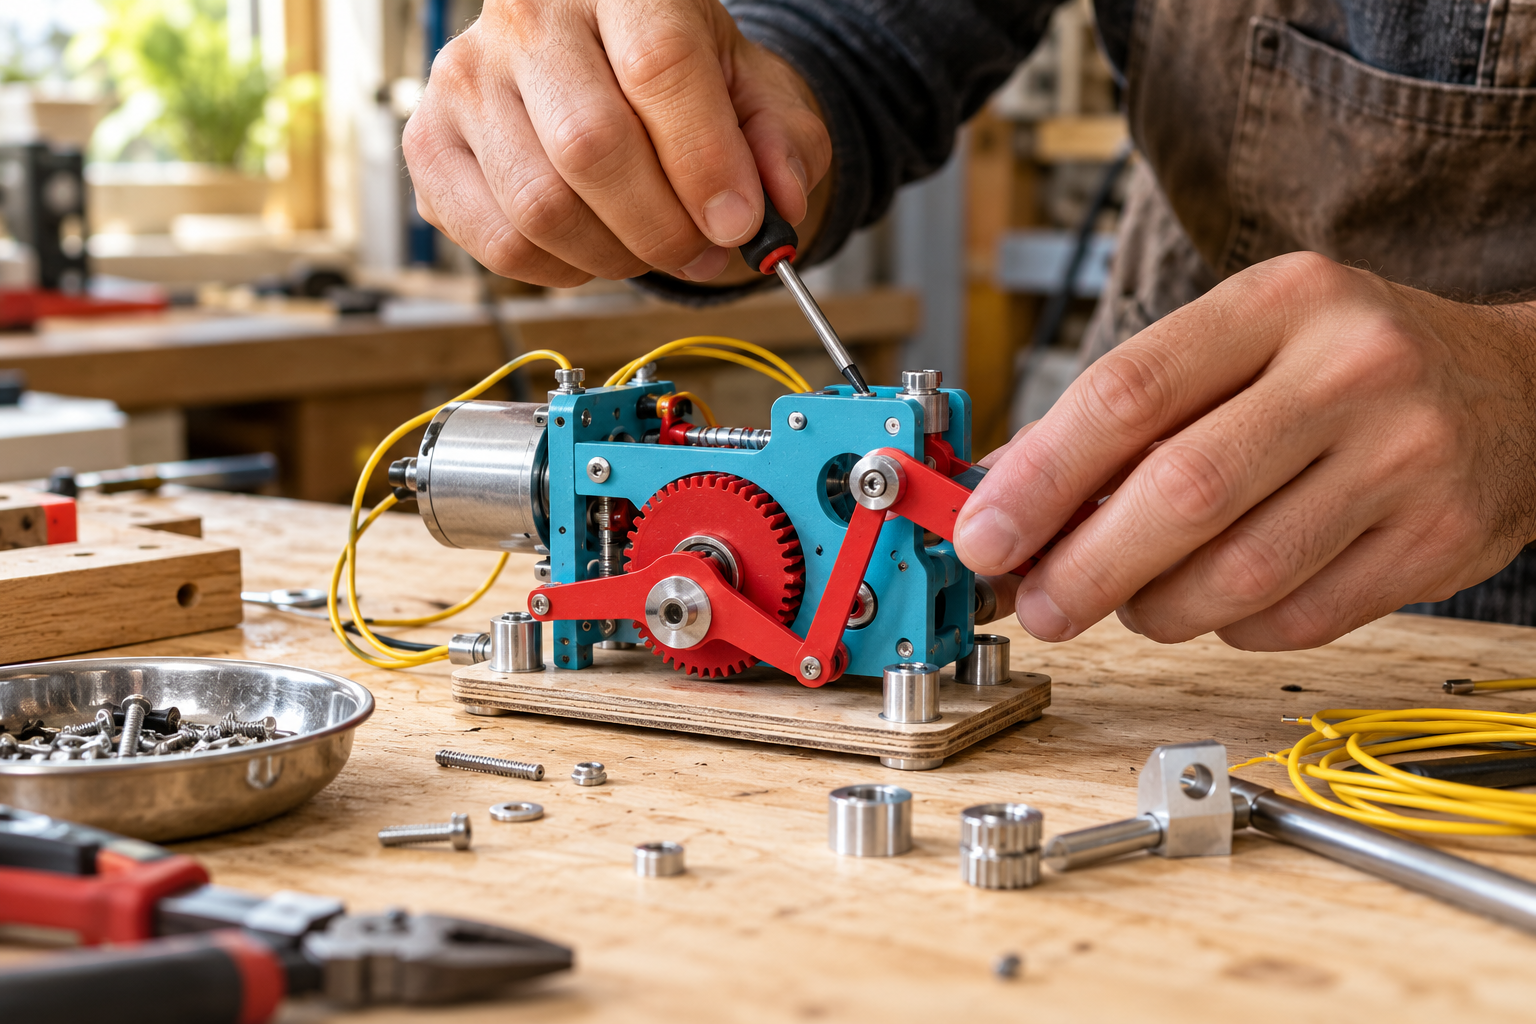
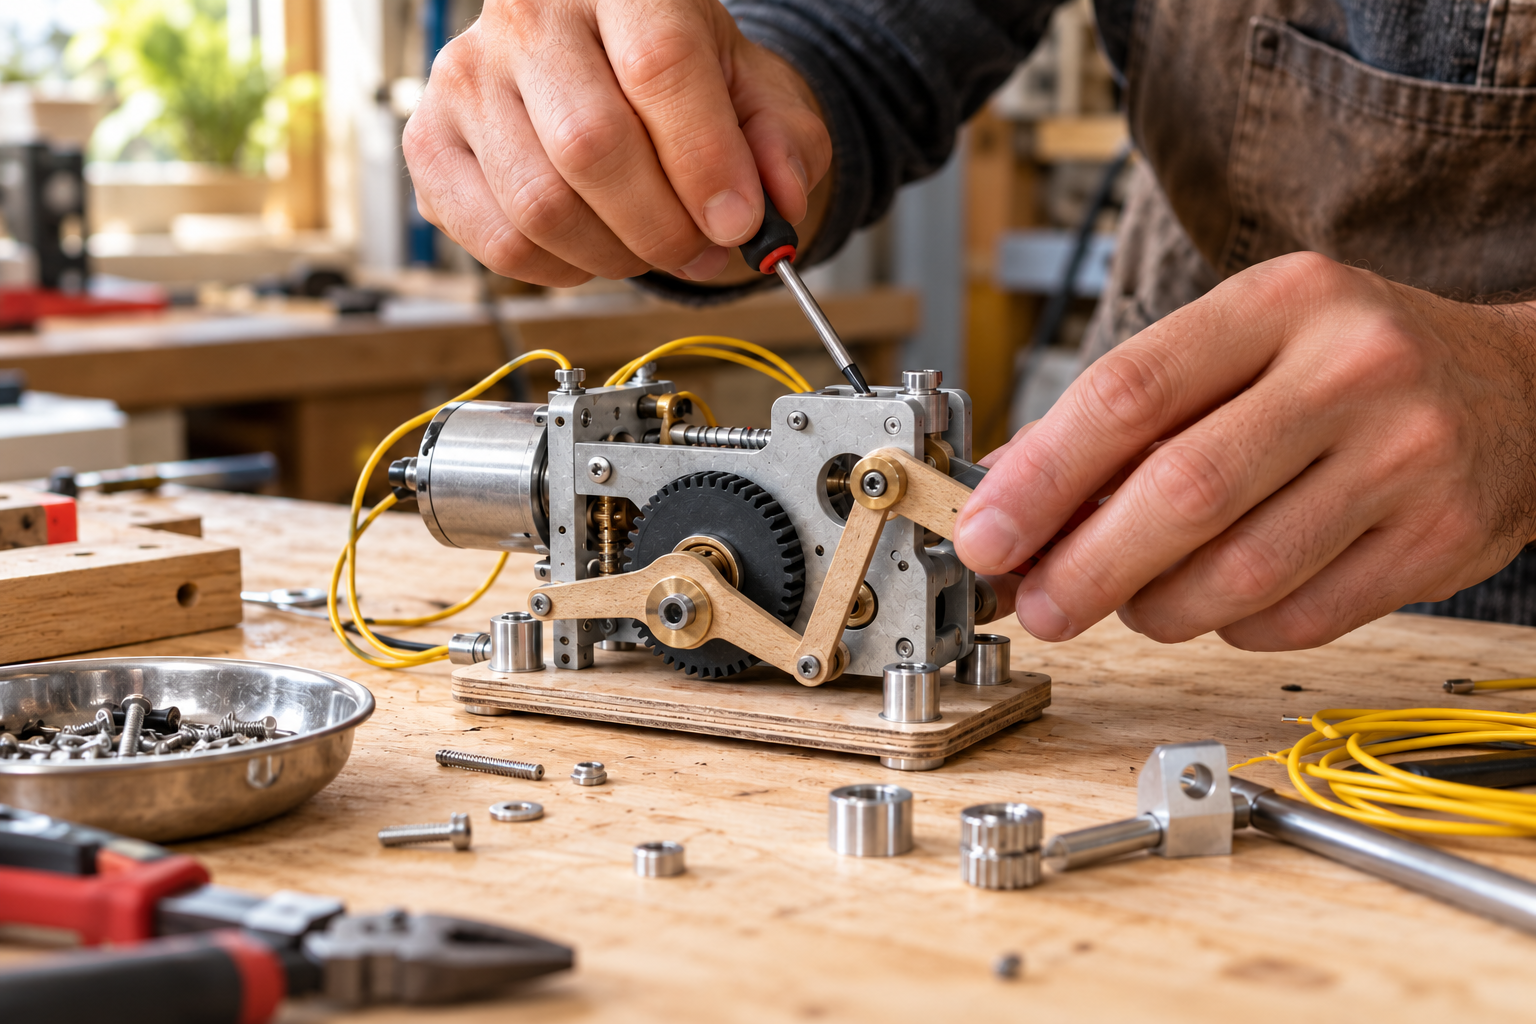
Clarify hierarchy with natural imagery and plain event details

diff --git a/src/content-scene.js b/src/content-scene.js
@@ -32,9 +32,18 @@ function wrap(text,width,size,measure=copyWidth){
   }
   return lines;
 }
-function drawCopy(scene,text,box,{size=36,leading=48,color=scene.readingInk,field='Supporting text',maxLines=1,tracking=0,align='left'}={}){
+function drawCopy(scene,text,box,{size=36,leading=48,color=scene.readingInk,field='Supporting text',maxLines=1,tracking=0,align='left',keepLastWords=1}={}){
   text=value(text);if(!text)return {height:0,drawn:false};
   const measure=(line,s)=>copyWidth(line,s,tracking),lines=supportedCopy(text)?wrap(text,box.w,size,measure):null;
+  if(lines?.length>1&&keepLastWords>1){
+    const last=lines.length-1,previous=lines[last-1].split(' '),ending=lines[last].split(' ');
+    while(ending.length<keepLastWords&&previous.length>1){
+      const candidate=[previous[previous.length-1],...ending];
+      if(measure(candidate.join(' '),size)>box.w)break;
+      ending.unshift(previous.pop());
+    }
+    lines[last-1]=previous.join(' ');lines[last]=ending.join(' ');
+  }
   const capacity=Math.min(maxLines,Math.floor(box.h/leading));
   if(!lines||lines.length>capacity){omit(scene,field,text);record(scene,field,text,[],box,size,true);return {height:0,drawn:false};}
   const scale=size/COPY_FONT.em;
@@ -217,16 +226,14 @@ function closing(scene,item,event,page,asset,crop,mode){
   const story=scene.format==='story',lines=chooseCallout(scene,item,page),info=eventFacts(item,event);
   expressive(scene,lines,{x:34,y:story?176:44,w:1012,h:story?780:620});
   context(scene,item,{y:story?1016:730});
-  const date=info.date,pieces=date.match(/^(?:(\w+day)\s+)?(\d{1,2}(?:\s*[–—-]\s*\d{1,2})?)\s+([a-z]+(?:\s+\d{4})?)$/i);
-  const dateY=story?1234:888;
-  if(pieces){
-    const numerals=pieces[2].replace(/\s/g,'').replace(/[–—]/g,'-');
-    const dateWidth=Math.min(pieces[1]?650:952,Math.max(320,numerals.length*140));
-    expressive(scene,[numerals],{x:34,y:dateY,w:dateWidth,h:story?220:190},{field:'Festival date'});
-    if(pieces[1])drawCopy(scene,pieces[1].toUpperCase(),{x:718,y:dateY+70,w:298,h:76},{size:30,leading:40,maxLines:2,field:'Day of week'});
-    drawCopy(scene,pieces[3].toUpperCase(),{x:64,y:dateY+(story?236:208),w:952,h:52},{size:36,leading:48,field:'Festival month'});
-  }else drawCopy(scene,date,{x:64,y:dateY,w:952,h:160},{size:48,leading:60,maxLines:2,field:'Festival date'});
-  drawCopy(scene,[info.time,info.venue].filter(Boolean).join(' / '),{x:64,y:story?1556:1164,w:952,h:76},{size:30,leading:38,maxLines:2,field:'Time and venue'});
+  // One factual reading block: original wording, stable proportions and no
+  // lettering motion. The callout is the composition's expressive voice.
+  const dateY=story?1336:930;
+  const date=drawCopy(scene,info.date,{x:64,y:dateY,w:952,h:128},{size:52,leading:64,maxLines:2,keepLastWords:2,field:'Festival date'});
+  let next=dateY+(date.drawn?date.height+24:0);
+  const time=drawCopy(scene,info.time,{x:64,y:next,w:952,h:48},{size:36,leading:48,field:'Event time'});
+  if(time.drawn)next+=time.height+12;
+  drawCopy(scene,info.venue,{x:64,y:next,w:952,h:96},{size:36,leading:48,maxLines:2,field:'Event venue'});
   omit(scene,'Closing supporting text',value(page.body,item.content?.description),'Supporting text is retained in the caption.');
 }
 

diff --git a/docs/art-direction.md b/docs/art-direction.md
@@ -4,6 +4,14 @@ Content Studio extends the expressive identity of the original Poster Studio. It
 
 The original [type poster](images/studio.png), [image window](images/image-window.png) and [object cutout](images/object-cutout.png) are the visual reference. A tidy generic heading, rectangular photograph and detached information stack do not meet this direction.
 
+## Role hierarchy
+
+1. **The callout provides the graphic voice.** A short, authored phrase uses the original expressive lettering and establishes the main silhouette.
+2. **The image provides the subject and an independent palette.** Materials, objects, people and their surroundings bring their own colours. The photograph or cutout should complement the graphic field without being artificially coordinated with the brand colours.
+3. **Plain factual type provides clarity.** Names, official titles, dates, times and venues use stable Inter. The date, time and venue form one coherent reading block with shared alignment and comfortable spacing.
+
+These roles stay consistent as content and formats change. Expression comes from the callout, its scale and its relationship with imagery; practical information remains calm and dependable.
+
 ## Lettering and composition
 
 Reuse the original treatment and composition engine for expressive headlines. Air, Flex and Packed retain their designed letter geometry, rhythm and response; one chosen treatment gives a content pack a consistent voice. Responsive letter widths and contours are intentional parts of this identity. Simulating them by stretching conventional font outlines is not an equivalent.
@@ -12,7 +20,9 @@ Use short, authored display phrases with deliberate line breaks. Keep the comple
 
 The letter silhouette should shape image placement and the surrounding space. A photograph can meet the last typographic row; an object can interrupt it; practical information can balance its weight. Expression should remain evident when the image is absent. Avoid applying an expressive heading to an otherwise generic card layout.
 
-Maker Faire red, cyan, white and dark ink remain the palette. Keep colour use confident and coherent across a series. New packs use transparent logos with automatic contrast; explicit manual logo choices remain intact. Use one compact identity signature, with comfortable space around it.
+Maker Faire red and white lead the example series, with dark ink for reading information. Cyan remains an intentional option and a restrained accent. It is not an automatic third full-field panel in every pack. Judge its use against the particular image, message and visual balance. Existing manual palette choices remain intact.
+
+New packs use transparent logos with automatic contrast; explicit manual logo choices remain intact. Use one compact identity signature, with comfortable space around it.
 
 ## Three composition families
 
@@ -30,9 +40,15 @@ Use this family only when an appropriate cutout exists. An ordinary photograph b
 
 ### Typographic callout
 
-A short, specific message becomes the graphic event. The original lettering engine carries the main field; a substantial date, time and venue block makes the invitation useful. A missing image produces a deliberate type poster without reserving an empty photo area.
+A short, specific message becomes the graphic event. The original lettering engine carries the main field; a substantial date, time and venue block in plain Inter makes the invitation useful. Preserve the date's normal numeral forms and punctuation. A missing image produces a deliberate type poster without reserving an empty photo area.
 
 Keep the action relevant to the content. An invitation must identify what the visitor will make, see or join. Give its practical information enough weight to read at phone size.
+
+## Image selection
+
+Real maker photography is the preferred source when it is available. A demonstration image should show believable materials, working conditions and light, with an independent colour palette. Warm timber, bare metal, paper, clothing and the surrounding space can provide contrast with the brand field. The existing robot remains a useful example of a cutout whose own colours give it character.
+
+Avoid selecting, generating or recolouring a workbench scene to repeat the poster's red and cyan across its tools, machine and background. A subject should feel chosen for the story it tells. Generated demonstration assets remain identified as demonstration images in the project documentation.
 
 ## Editorial and format guardrails
 
@@ -50,14 +66,14 @@ Keep the action relevant to the content. An invitation must identify what the vi
 
 Review rendered artwork at native size and at phone size, without editor chrome. Compare it directly with the original three reference posters, not merely with the previous content template revision.
 
-Approve a composition only when its expressive silhouette, hierarchy, image relationship and information balance feel authored. Check complete titles and names, useful dates, intentional crops, comfortable reading copy and clear logo contrast. Examine Feed and Story, a photograph, a genuine cutout, no image and longer source content. A functional export does not establish design quality.
+Review the three roles directly: is the callout expressive, does the image contribute its own subject and palette, and does the factual block read as one calm unit? Check complete titles and names, normal dates, intentional crops, comfortable reading copy and clear logo contrast. Examine Feed and Story, a photograph, a genuine cutout, no image and longer source content. A functional export or legible layout does not establish the desired visual quality.
+
+Record the examples reviewed and any unresolved visual concerns. The user's judgement of the actual artwork remains the deciding bar; an internal review is not an absolute design approval.
 
 ## Review status
 
-The previous static display-type direction and its approval are superseded. They improved legibility but removed the original studio's visual character.
+The earlier approval statements are superseded by the user's visual feedback. Restoring the original lettering did not resolve the cyan-led examples, the artificially coordinated workbench image or the expressive date numerals.
 
-The replacement compositions were manually reviewed on 1 November 2026 against the original poster references. The reviewed artwork includes Feed and Story, maker and workshop, image-window covers, editorial content, an object hero, typographic invitations, a type-only cover, a single-row callout and a longer source identity. The review included native-size artwork and phone-scale compositions.
+The revised examples were manually reviewed on 1 November 2026: a red image-window cover with “DRAWN / BY THE / SUN”, the red robot hero, and a white workshop invitation with “MAKE / WITH US”. The [current three-board series](images/content-series.png) shows these examples. The workbench sample now uses bare aluminium, charcoal, brass and plywood with incidental tool colours; its material palette reads independently of the graphic field. The robot asset is unchanged. The invitation uses normal Inter for its complete date, time and venue in one aligned block.
 
-The reviewed original-engine compositions are approved for this revision. Expressive lettering now drives the image relationship and overall silhouette; the corrected date fields remain legible, and the reviewed reading areas stay clear of images and footers. This approval applies to the reviewed layouts and examples. Future composition changes require a fresh artwork review. The [current six-board series](images/content-series.png) shows the approved direction.
-
-The optional partner-name footer was also reviewed in Feed and Story with a two-line venue. The Maker Faire identity, partner acknowledgement and link occupy separate footer columns without colliding with the event information.
+Separate Story examples were reviewed with the same image families and a longer factual block, two-line venue and partner footer. The wrapped date keeps “January 2027” together, and the practical information remains clear of the footer. These are observations about the specific revised examples. The photograph remains a generated demonstration asset, and real maker photography remains the preferred production source. Further visual decisions should follow the user's response to actual artwork.

diff --git a/README.md b/README.md
@@ -18,6 +18,8 @@ Open the root page to create a **Maker Spotlight**, **Workshop**, or **Poster**.
 
 Templates follow the [Content Studio art direction](docs/art-direction.md) and use the original hero poster lettering engine. Air, Flex and Packed shape a substantial typographic field, with the same optical spacing, letter character and motion as the poster editor. Photo windows sit between rows of lettering; transparent objects interrupt the field and the letters respond to their silhouette; type-only callouts reclaim the full artwork area. Names, complete official titles and practical facts have separate reading areas.
 
+Red and white lead the example series. Photographs retain their own colours and material character; the renderer does not tint them to match the brand. Dates, times and venues use stable Inter lettering as one factual reading block. The expressive treatment belongs to the main callout. Cyan remains an optional palette.
+
 Write a short **Poster callout**, using Enter for two to four deliberate lines, while retaining the full project or workshop title in its own field. A page's optional callout overrides the shared cover wording. Feed and Story are composed separately. Whole secondary blocks, or complete sentences from a longer story, are selected for the artwork; the complete source stays in the project and sharing pack caption. New packs automatically choose a contrasting monochrome logo; turn off Automatic contrast to choose a specific supplied colour variant.
 
 The library saves to **IndexedDB on this device**. The first visit migrates a previously saved Poster Studio project into a library item. Imported v1 poster files keep their original artwork, media, fonts, logo and placement, and open in the classic editor at `/poster.html`. Use the editor’s back link to return to the library after saving.

diff --git a/assets/samples/README.md b/assets/samples/README.md
@@ -1,8 +1,8 @@
 # Sample images
 
-Generated demonstration assets for Poster Studio:
+Generated demonstration assets for Content Studio and Poster Studio:
 
-- `workshop.png` — hands assembling a mechanical prototype, for Image window.
+- `workshop.png` — AI-generated editorial-style workshop scene of hands assembling a mechanical prototype, for Image window and content packs. The source demonstration image was edited with image generation to use bare brushed aluminum, charcoal resin, brass, and natural plywood parts while preserving the hands, tools, independent material colours, and workshop daylight. It illustrates a fictional sample project, not documentary coverage of a real event.
 - `robot.png` — a transparent tabletop maker robot, for Object cut-out.
 - `studio-robot.png` — a finished yellow tracked robot with studio lighting and a transparent background, for Object cut-out.
 
